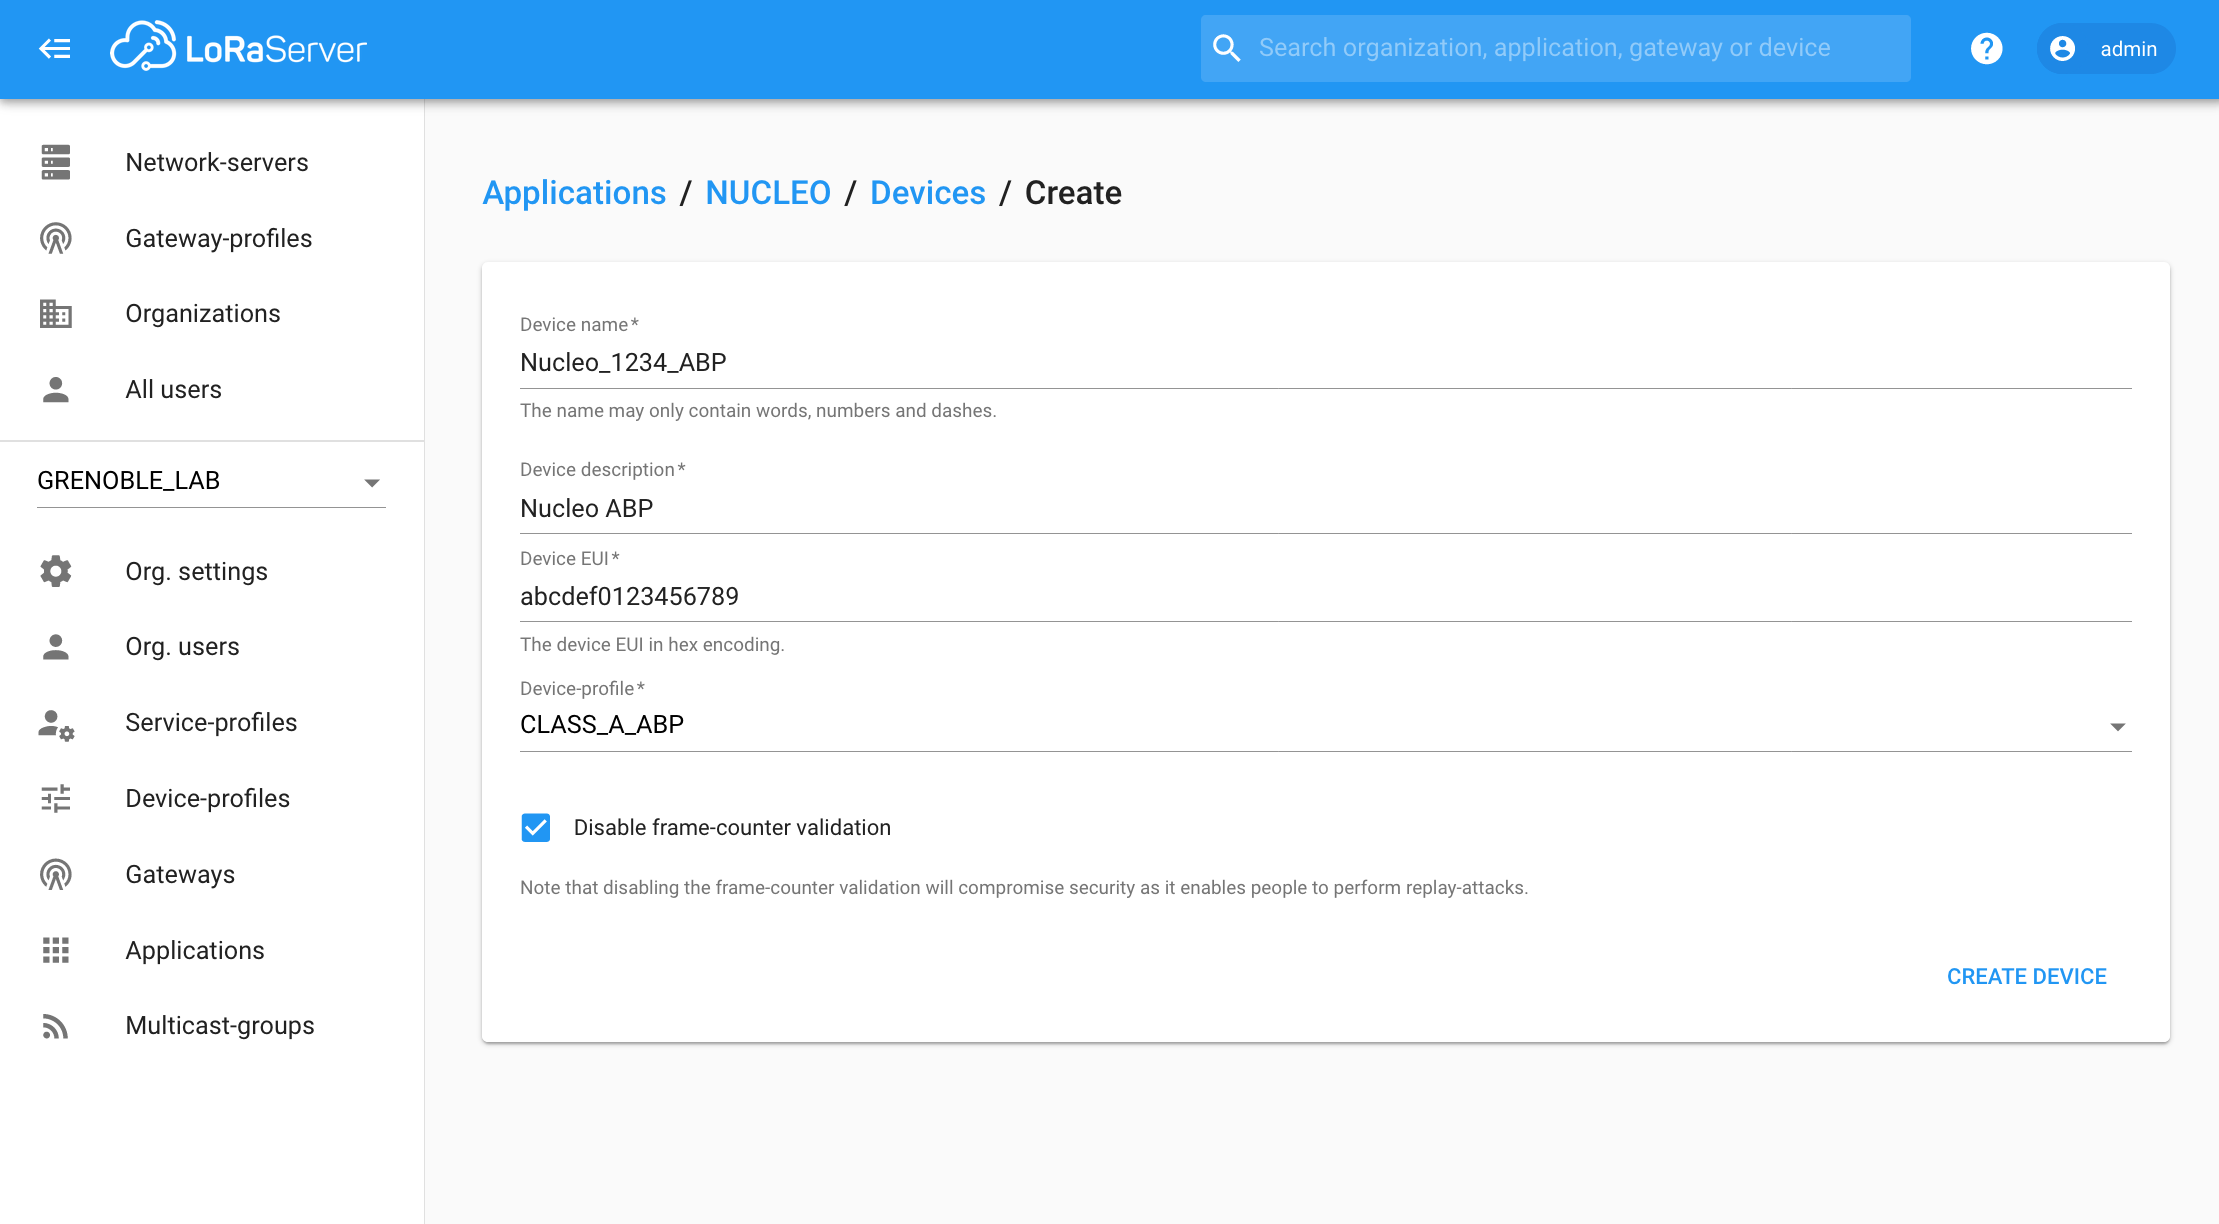
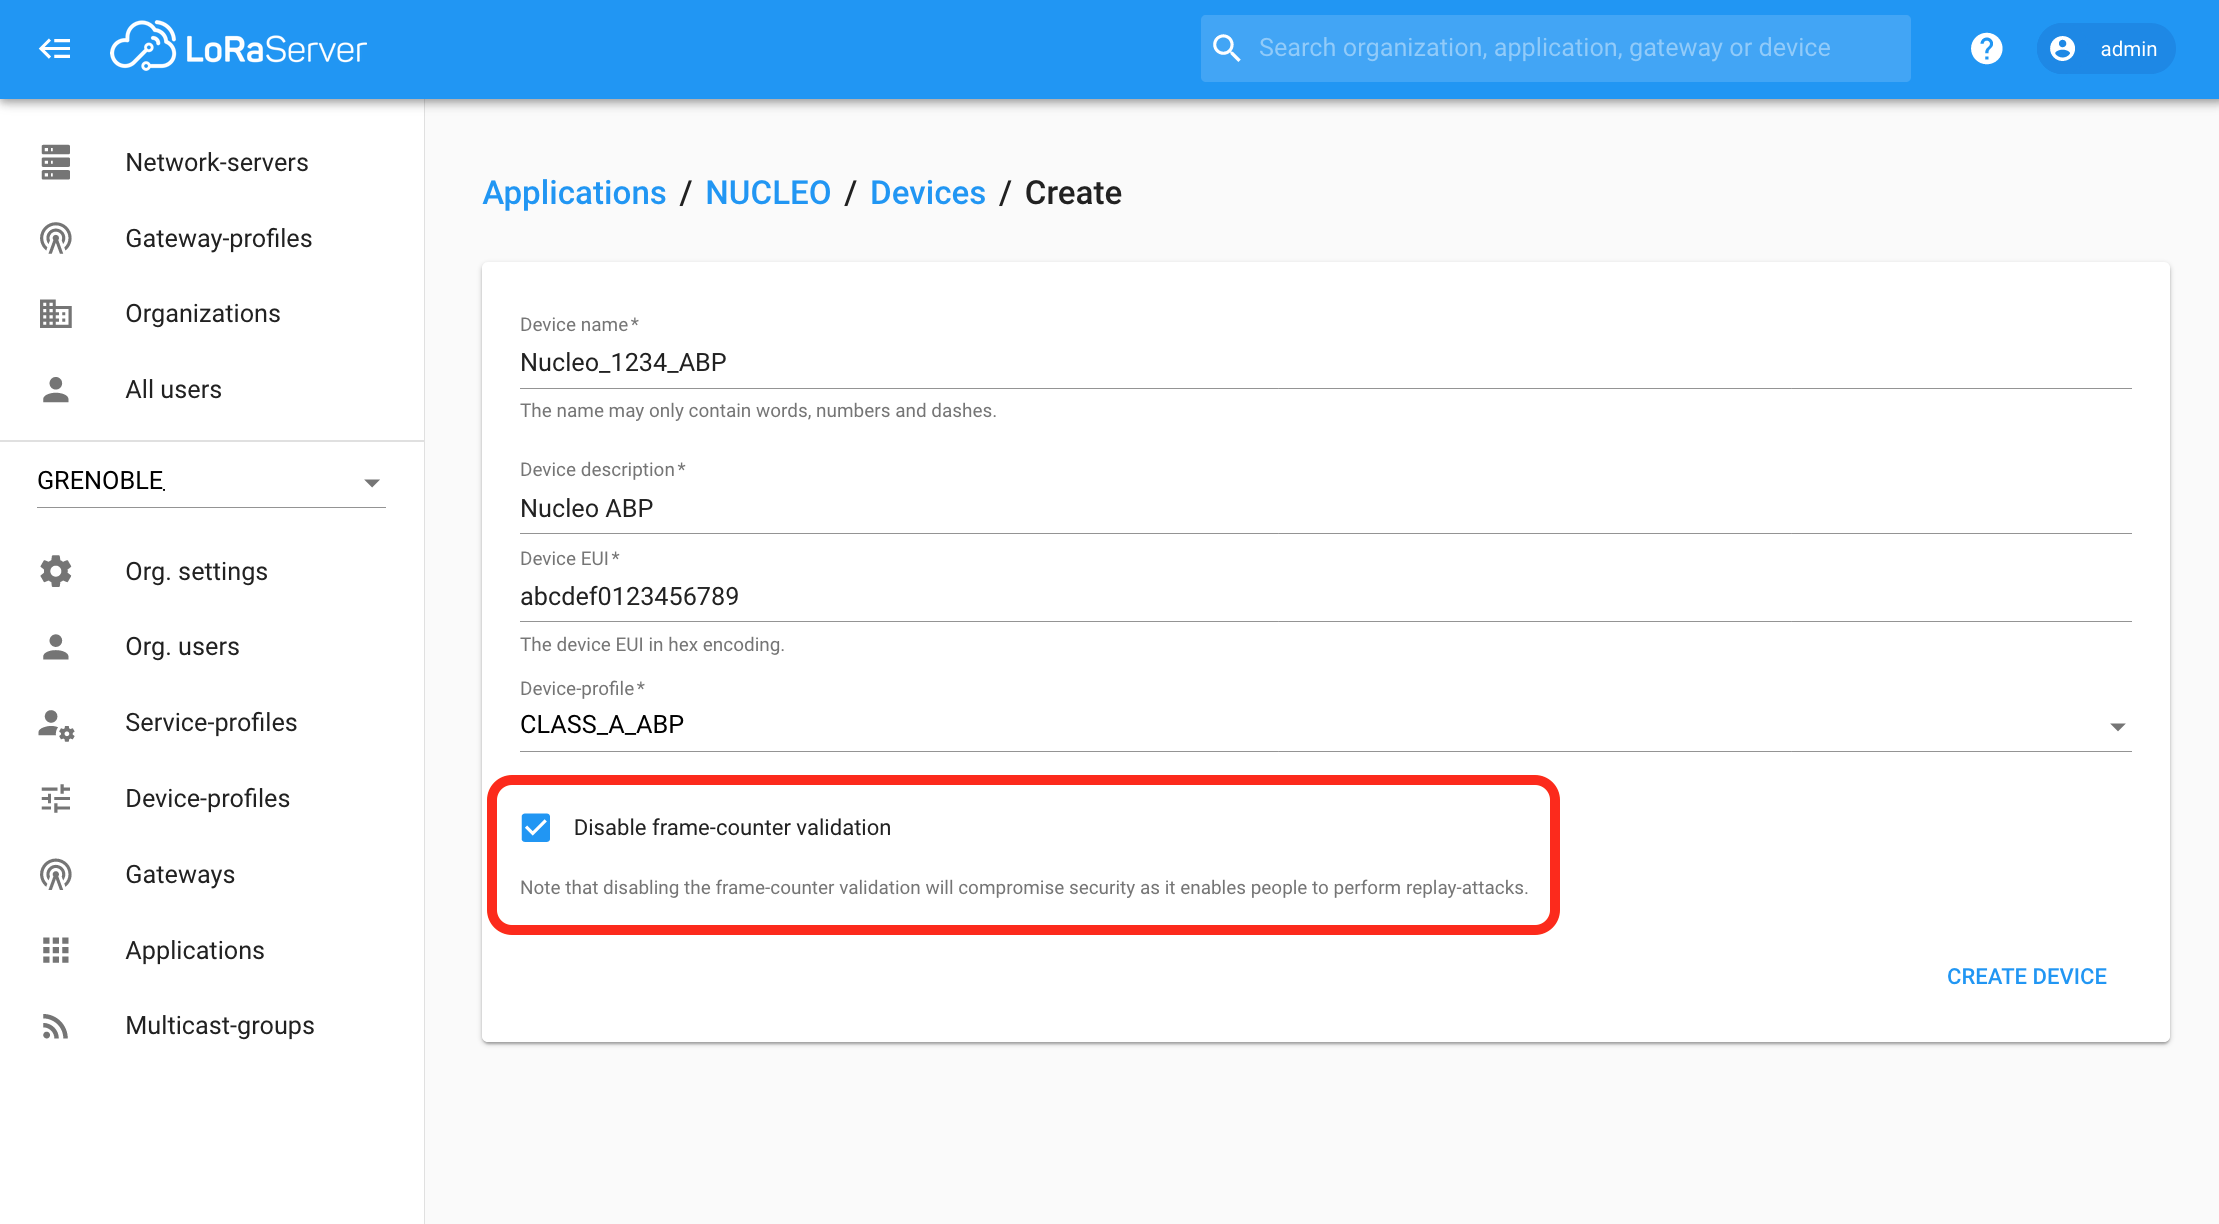
complete abp section

Changed region(s): [[0.2177, 0.6209, 0.7152, 0.7761]]

diff --git a/loraserver/README.md b/loraserver/README.md
@@ -95,13 +95,28 @@ Ajoutez ensuite l’`AppKey` (AES 128bits soit 32 caractères hexadécimaux) fou
 [Plus de détails](https://www.loraserver.io/lora-app-server/use/devices/)
 
 ### Enregistrer un device ABP
-Un device LoRaWAN peut utiliser la procédure ABP (Activation By Personalization) pour communiquer avec le réseau. Les deux clés de session `AppSKey` et `NwkSKey` sont livrées avec le endpoint. Le device doit être enregistré avec le device-profile `CLASS_A_ABP` préalablement créé.
+Un device LoRaWAN peut utiliser la procédure ABP (Activation By Personalization) pour communiquer avec le réseau. Les deux clés de session `AppSKey` et `NwkSKey` sont livrées avec le endpoint. Le device doit être enregistré avec le device-profile `CLASS_A_ABP` préalablement créé (voir ci-dessous).
 
-TODO
+![Create ABP Device Profile](images/device-profile-create-abp.png)
 
 ![Add ABP Device](images/device-add-abp.png)
 
+Renseignez le champs `Device address` avec une adresse comprise dans le NetId `0x00` soit entre `0x00000000` et `0x01FFFFFF`.
+
+Ajoutez le clé de session `NwkSKey` dans les 3 premiers champs de clé.
+
+Ajoutez le clé de session `AppSKey` dans le quatrième champs de clé.
+
+Initialisez le compteur montant courant et le compteur descendant courant (ie. `frame-counters`) du device si vous les connaissez.
+
+Validez avec le bouton `(Re)Activate Device`.
+
+![Reactivate ABP Device](images/device-reactivate.png)
+
 > Nota Bene : La procédure ABP est évitée du fait d'une moindre sécurité par rapport à la procédure OTAA.
+
+> Nota Bene : Il est parfois nécessaire de cocher `Disable frame counter validation` quand le device ne conserve pas le compteur montant (`fCntUp`) de manière persistante. En cas de changement de batterie ou de reset, le compteur montant est remis à zero.
+
 
 [Plus de détails](https://www.loraserver.io/lora-app-server/use/devices/)
 
